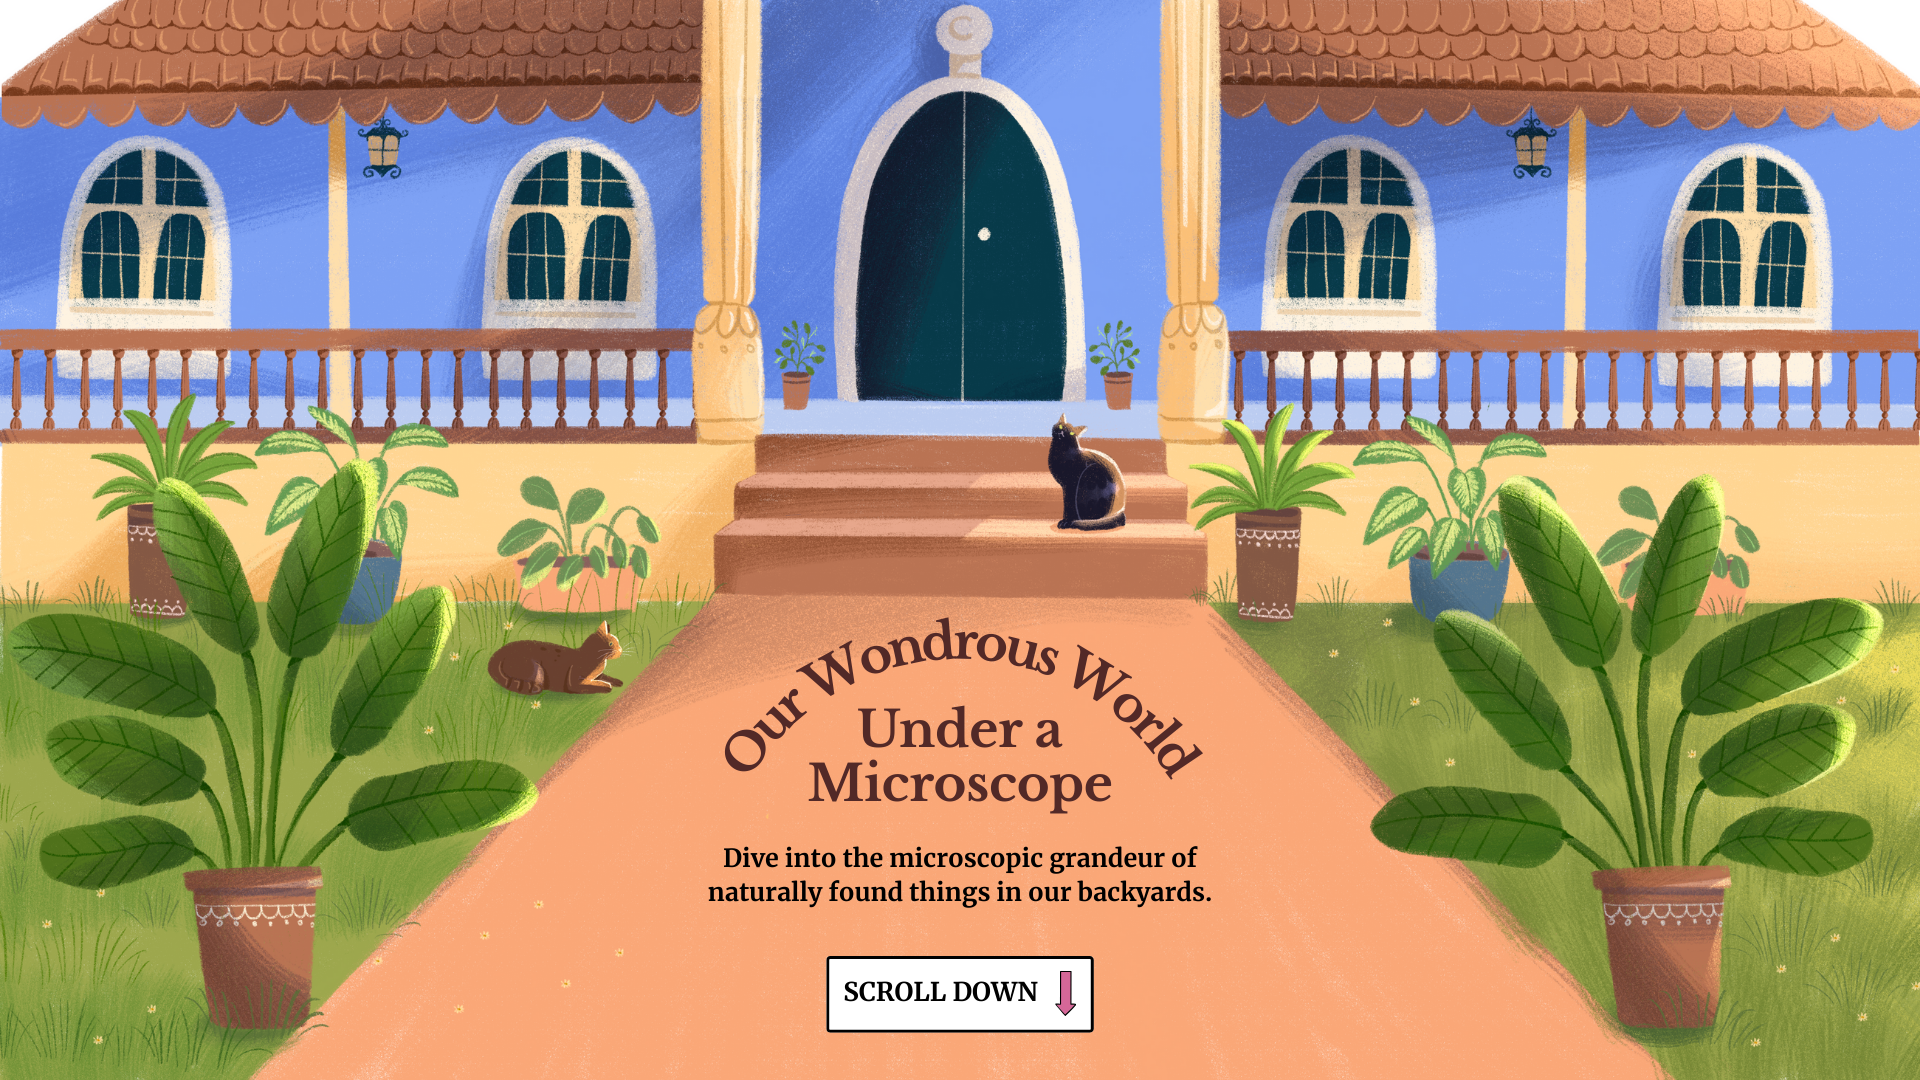
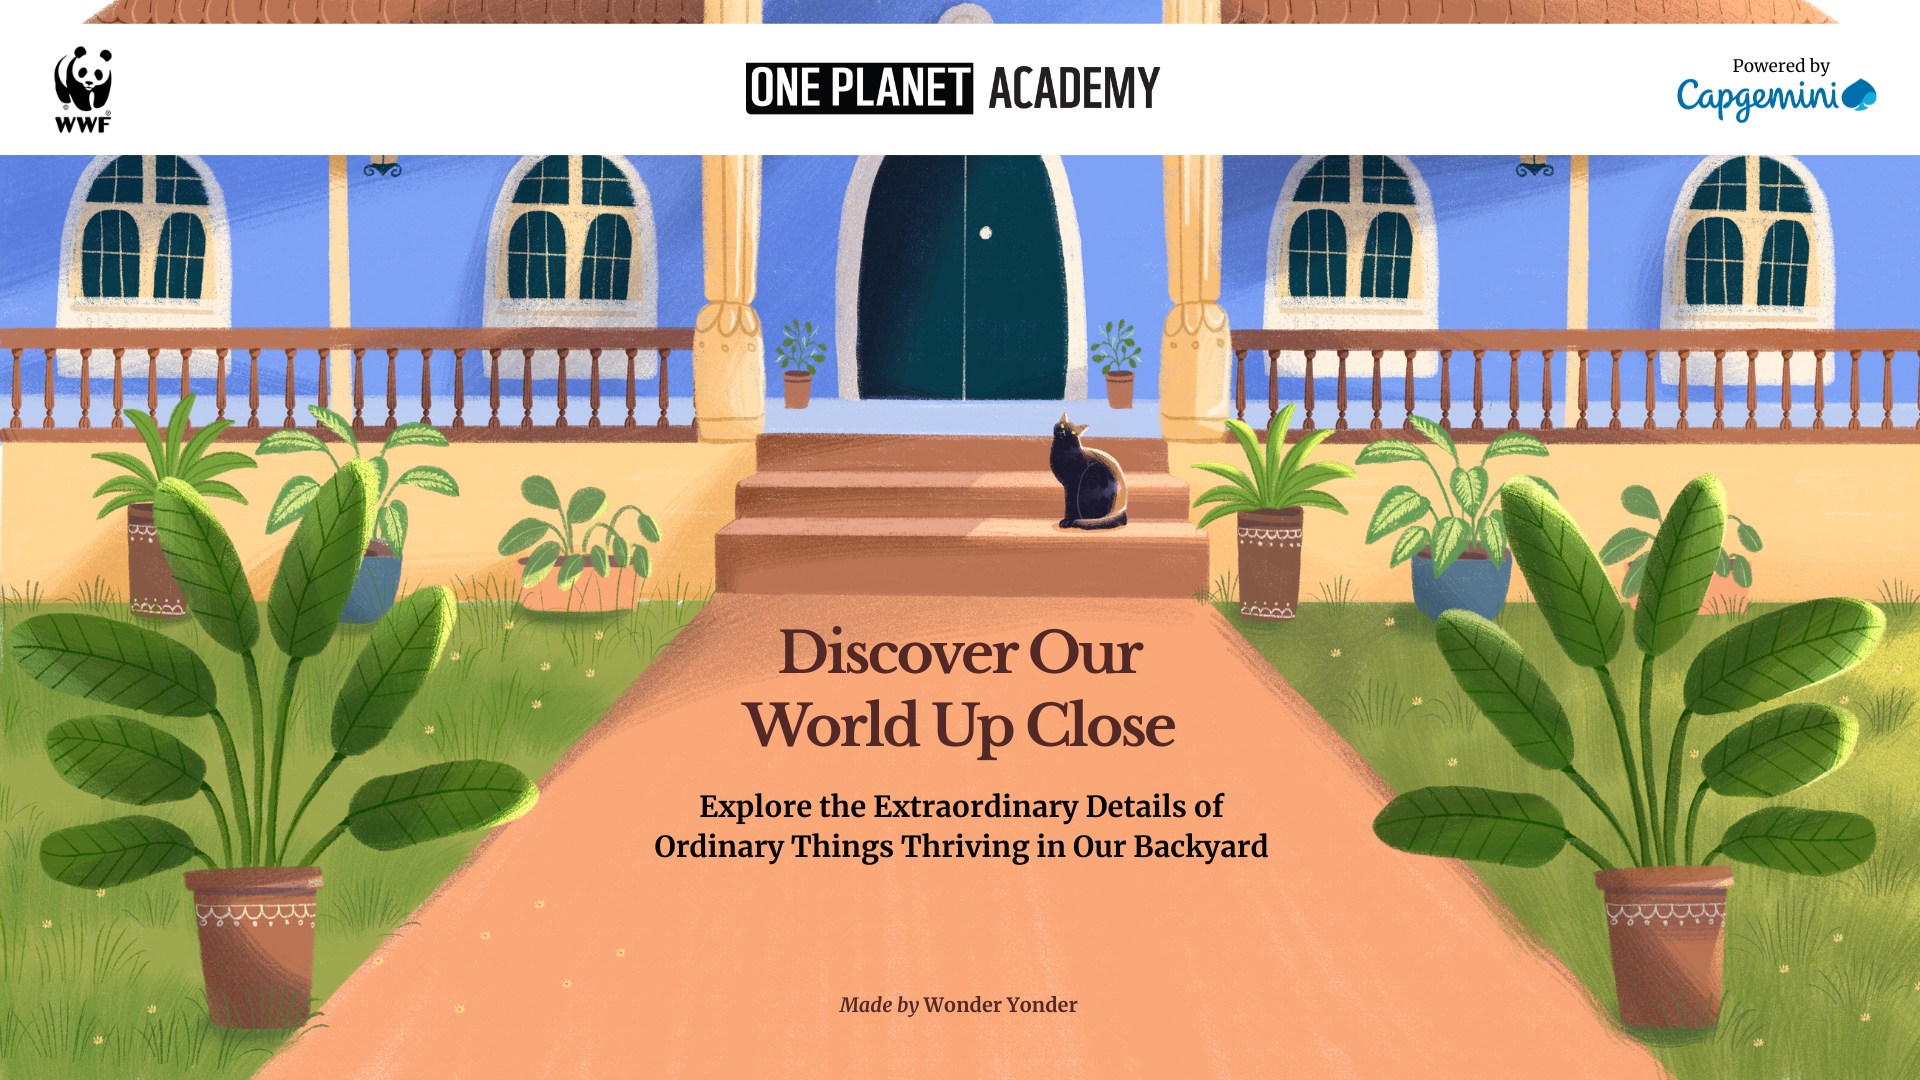
Title pages updated and linked added

diff --git a/script.js b/script.js
@@ -24,7 +24,9 @@ document.addEventListener('DOMContentLoaded', () => {
     loadingScreen: document.getElementById('loading-screen'),
     loadingImage: document.getElementById('loading-image'),
     calloutsContainer: document.getElementById('callouts-container'),
-    hotspots: document.querySelectorAll('.hotspot')
+    hotspots: document.querySelectorAll('.hotspot'),
+    backgroundLink: document.getElementById('background-link')
+
   }
 
   elements.loadingImage.src = 'assets/loading/loading-0.png'
@@ -105,7 +107,7 @@ document.addEventListener('DOMContentLoaded', () => {
         updateLoading()
       }
       img.onerror = () => {
-        console.error('Failed to load hotspot image:', img.src)
+        // console.error('Failed to load hotspot image:', img.src)
         loadedImages++
         updateLoading()
       }
@@ -124,7 +126,7 @@ document.addEventListener('DOMContentLoaded', () => {
         updateLoading()
       }
       img.onerror = () => {
-        console.error('Failed to load walker frame:', src)
+        // console.error('Failed to load walker frame:', src)
         loadedImages++
         updateLoading()
       }
@@ -142,7 +144,7 @@ document.addEventListener('DOMContentLoaded', () => {
       updateLoading()
     }
     img.onerror = () => {
-      console.error('Failed to load background image:', imgData.src)
+      // console.error('Failed to load background image:', imgData.src)
       loadedImages++
       updateLoading()
     }
@@ -160,7 +162,7 @@ document.addEventListener('DOMContentLoaded', () => {
     updateLoading()
   }
   flowersImg.onerror = () => {
-    console.error('Failed to load flowers overlay image:', flowersImage.src)
+    // console.error('Failed to load flowers overlay image:', flowersImage.src)
     loadedImages++
     updateLoading()
   }
@@ -186,7 +188,7 @@ document.addEventListener('DOMContentLoaded', () => {
       backgroundTotalWidth: 0, 
       hotspotData: {
       
-        bird: { x: 0.02, y: 0.4 }, // 5% of room-strip width, 40% of room-strip height
+        bird: { x: 0.02, y: 0.4 },
         burr: { x: 0.49, y: 0.05 },
         butterfly: { x: 0.56, y: 0.6 },
         millipede: { x: 0.41, y: 0.15 },
@@ -200,6 +202,30 @@ document.addEventListener('DOMContentLoaded', () => {
       }
     }
 
+    function setupBackgroundLink() {
+  const backgroundLink = document.getElementById('background-link');
+  const backgroundLinkAnchor = backgroundLink ? backgroundLink.querySelector('a') : null;
+  
+  if (backgroundLink && backgroundLinkAnchor) {
+    // Ensure the link is clickable by preventing other event handlers from interfering
+    backgroundLinkAnchor.addEventListener('click', function(e) {
+      // Stop event propagation to prevent other handlers from canceling this
+      e.stopPropagation();
+      
+      // Log to console for debugging
+      // console.log('Background link clicked, navigating to:', this.href);
+      
+      // You can also force navigation this way if needed
+      // window.open(this.href, this.target);
+      
+      // Return true to allow default anchor behavior
+      return true;
+    });
+      //  console.log('Background link setup complete');
+  } else {
+    // console.error('Background link elements not found');
+  }
+}
     function updateLayoutDimensions () {
       const firstBackgroundImg =
         elements.background.querySelector('.first-background')
@@ -266,6 +292,16 @@ document.addEventListener('DOMContentLoaded', () => {
 
     updateLayoutDimensions()
     positionCalloutsDynamically()
+    setupBackgroundLink();
+
+    document.addEventListener('click', function(e) {
+  // Check if click was on or within the background link
+  const backgroundLink = document.getElementById('background-link');
+  if (backgroundLink && (e.target === backgroundLink || backgroundLink.contains(e.target))) {
+    // Allow the click on the link to work naturally
+    return true;
+  }
+});
 
     function enforceBoundaries () {
       const actualMaxScroll =
@@ -320,6 +356,10 @@ document.addEventListener('DOMContentLoaded', () => {
       elements.calloutsContainer.style.transform = translateX
       elements.flowersOverlay.style.transform = translateX
 
+       if (elements.backgroundLink) {
+    elements.backgroundLink.style.transform = translateX
+  }
+
       currentState.previousPosition = currentState.position 
       requestAnimationFrame(updateWalk)
     }
@@ -333,6 +373,11 @@ document.addEventListener('DOMContentLoaded', () => {
       elements.background.style.transform = translateX
       elements.flowersOverlay.style.transform = translateX
       elements.calloutsContainer.style.transform = translateX
+
+      if (elements.backgroundLink) {
+    elements.backgroundLink.style.transform = translateX
+  }
+
     })
 
     elements.hotspots.forEach(hotspot => {

diff --git a/styles.css b/styles.css
@@ -185,12 +185,10 @@ body.loading .first-background {
   transform: translate(-50%, -50%);
   z-index: 999;
   display: none;
-  background: rgba(0, 0, 0, 0.5); /* Semi-transparent background for modal overlay */
   width: 80%; /* Responsive width */
   max-width: 900px; /* Maximum width */
   height: auto;
   max-height: 90vh; /* Limit maximum height to prevent overflow on small screens */
-  box-shadow: 0 0 20px rgba(0, 0, 0, 0.3); /* Add shadow for better visibility */
   border-radius: 8px; /* Rounded corners */
   overflow: hidden; /* Hide overflow if content is too large */
 }
@@ -206,10 +204,8 @@ body.loading .first-background {
   width: 100%;
   height: auto;
   max-height: 90vh;
-  background-color: white; /* Modal content background */
   padding: 20px;
   border-radius: 8px;
-  box-shadow: 0 0 20px rgba(0, 0, 0, 0.3);
   display: flex;
   flex-direction: column;
   align-items: center;
@@ -238,21 +234,21 @@ body.loading .first-background {
 }
 
 #modal-close {
-  width: 30px;
-  top: 10px;
-  right: 10px;
+  width: 60px;
+  top: 70px;
+  right: 75px;
 }
 
 #modal-prev {
-  width: 80px;
-  bottom: 10px;
-  left: 10px;
+  width: 350px;
+  bottom: 8px;
+  left: -40px;
 }
 
 #modal-next {
-  width: 80px;
-  bottom: 10px;
-  right: 10px;
+ width: 350px;
+  bottom: 8px;
+  right: -70px;
 }
 
 #flowers-overlay {
@@ -313,6 +309,29 @@ body.loading .first-background {
     bottom: -3vh;
     left: -30vw;
   }
+  #modal {
+    width: 90% !important;
+    height: auto;
+    max-height: 80vh;
+    top: 50% !important;
+    left: 50% !important;
+    transform: translate(-50%, -50%) !important;
+  }
+  #modal-close {
+    width: 50px;
+    top: 48px;
+    right: 55px;
+  }
+  #modal-prev {
+    width: 270px;
+    bottom: 1px;
+    left: -34px;
+  }
+  #modal-next {
+    width: 270px;
+    bottom: 1px;
+    right: -54px;
+  }
 }
 
 /* Small phones */
@@ -324,5 +343,69 @@ body.loading .first-background {
   }
     #loading-image {
     max-width: 50vw; /* Largest on mobile */
+  }
+  #modal {
+    width: 90% !important;
+    height: auto;
+    max-height: 80vh;
+    top: 50% !important;
+    left: 50% !important;
+    transform: translate(-50%, -50%) !important;
+  }
+  #modal-close {
+    width: 50px;
+    top: 48px;
+    right: 55px;
+  }
+  #modal-prev {
+    width: 270px;
+    bottom: 1px;
+    left: -34px;
+  }
+  #modal-next {
+    width: 270px;
+    bottom: 1px;
+    right: -54px;
+  }
+}
+
+/* Updated background link styling */
+.background-link {
+  position: absolute;
+  z-index: 30; /* Increased z-index above everything else (hotspots were at 20) */
+  pointer-events: auto;
+}
+
+.background-link a {
+  display: block;
+  width: 100%;
+  height: 100%;
+  cursor: pointer;
+  /* Debug styling - remove after positioning is confirmed */
+  /* background-color: rgba(255, 0, 0, 0.3); Semi-transparent red */
+}
+
+/* For debugging purposes only - remove after testing */
+
+
+/* Position for desktop */
+@media (min-width: 769px) {
+  .background-link {
+    /* Adjust these values to match your element position */
+    top: 91%; 
+    left: 47%;
+    width: 120px;
+    height: 30px;
+  }
+}
+
+/* Position for mobile */
+@media (max-width: 768px) {
+  .background-link {
+    /* Adjust these values for mobile */
+    top: 91%;
+    left: 44%;
+    width: 150px;
+    height: 50px;
   }
 }

diff --git a/index.html b/index.html
@@ -17,6 +17,10 @@
     <div id="background">
         </div>
 
+    <div id="background-link" class="background-link">
+    <a href="https://www.wonder-yonder.com" target="_blank" rel="noopener"></a>
+</div>
+
     <div id="callouts-container">
         <div class="hotspot active hotspot-bird">
             <img src="assets/callouts/IMG_Bird.PNG" alt="Bird Callout">
